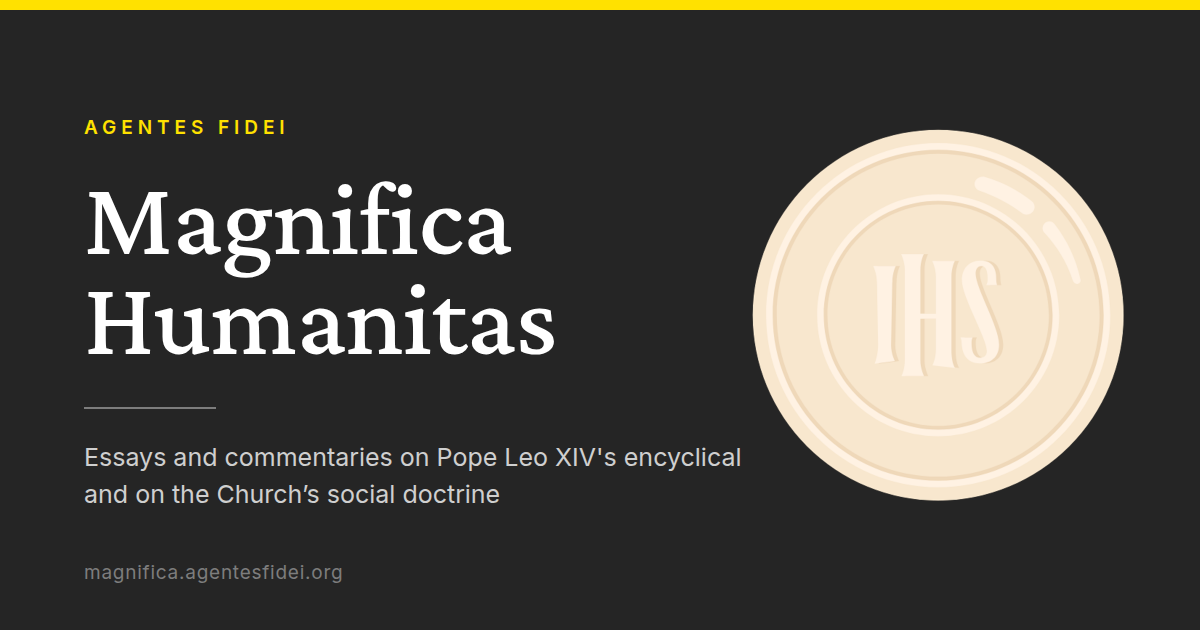
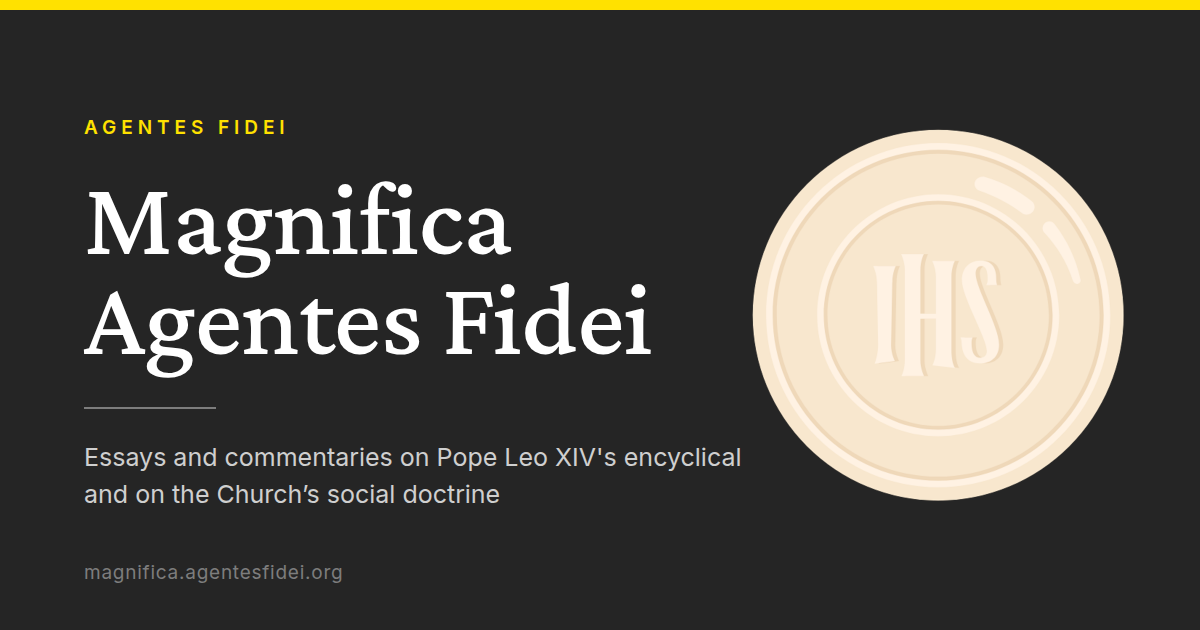
rebrand: the publication is 'Magnifica Agentes Fidei', not 'Magnifica Humanitas'
'Magnifica Humanitas' is the title of the encyclical itself (Leo XIV, 2026);
the publication was wearing it, which confuses the two. The site's nameplate,
page-title suffixes, og:site_name, RSS feed title, CMS admin branding and the
share-card nameplate now read 'Magnifica Agentes Fidei'. Every reference to
the encyclical keeps its title: the tagline, the quotations post, the sources
rows, the documents row, the Veritas guide copy, and the introduction post
(whose abstract introduces the encyclical).

Changed region(s): [[0.0617, 0.4524, 0.555, 0.6032]]

diff --git a/site/src/lib/i18n.ts b/site/src/lib/i18n.ts
@@ -7,7 +7,9 @@
 export type Lang = 'en' | 'es';
 
 const en = {
-  siteName: 'Magnifica Humanitas',
+  // The publication's own name. NOT the encyclical's: the encyclical is Magnifica Humanitas;
+  // this publication is named for the publisher, so the two are never confused (Barry, 2026-10-27).
+  siteName: 'Magnifica Agentes Fidei',
   // The masthead credit under the title on the home page. A proper noun, so identical in both
   // locales — but declared in both, because `typeof en` requires the key to exist in each.
   publisher: 'Agentes Fidei',
@@ -109,7 +111,7 @@ const en = {
 // `typeof en` keeps the two languages structurally identical: adding a string to one
 // without the other is a type error, so no page can render `undefined` in Spanish.
 const es: typeof en = {
-  siteName: 'Magnifica Humanitas',
+  siteName: 'Magnifica Agentes Fidei',
   publisher: 'Agentes Fidei',
   by: 'Por',
   motto: 'seres humanos como agentes de la fe…',

diff --git a/cms/src/payload.config.ts b/cms/src/payload.config.ts
@@ -34,8 +34,8 @@ export default buildConfig({
       baseDir: path.resolve(dirname),
     },
     meta: {
-      titleSuffix: ' — Magnifica Humanitas',
-      description: 'The editorial desk for the Magnifica Humanitas publication.',
+      titleSuffix: ' — Magnifica Agentes Fidei',
+      description: 'The editorial desk for the Magnifica Agentes Fidei publication.',
     },
   },
   collections: [Documents, DocParagraphs, Posts, Sources, PostSources, Topics, Media, Users],
@@ -69,7 +69,7 @@ export default buildConfig({
     ? {
         email: nodemailerAdapter({
           defaultFromAddress: process.env.EMAIL_FROM as string,
-          defaultFromName: 'Magnifica Humanitas',
+          defaultFromName: 'Magnifica Agentes Fidei',
           transportOptions: {
             host: process.env.SMTP_HOST || 'smtp.sendgrid.net',
             port: Number(process.env.SMTP_PORT || 587),

diff --git a/site/src/styles/global.css b/site/src/styles/global.css
@@ -1,7 +1,7 @@
 @import "tailwindcss";
 
 /* ============================================================================
-   INK WASH — the Magnifica Humanitas design system
+   INK WASH — the publication's (Magnifica Agentes Fidei) design system
    ----------------------------------------------------------------------------
    A grayscale system for an editorial, document-like surface. Colour carries
    hierarchy here, never decoration: there is deliberately no accent hue, because

diff --git a/site/src/pages/rss.xml.ts b/site/src/pages/rss.xml.ts
@@ -13,7 +13,7 @@ export const prerender = true;
 export const GET: APIRoute = async (context) => {
   const posts = await listPublishedPosts('en');
   return rss({
-    title: 'Magnifica Humanitas',
+    title: 'Magnifica Agentes Fidei', // the publication's name, not the encyclical's
     description:
       'Posts with cited sources on the teaching of Pope Leo XIV.',
     site: context.site ?? 'https://magnifica.agentesfidei.org',

diff --git a/cms/src/app/(payload)/custom.scss b/cms/src/app/(payload)/custom.scss
@@ -1,4 +1,4 @@
-/* Branding for the Magnifica Humanitas admin.
+/* Branding for the Magnifica Agentes Fidei admin.
  *
  * This is Payload's documented extension point for global admin styles — it is loaded into
  * every admin page. The goal is that the desk an editor sits at looks like the publication

diff --git a/cms/src/seed.ts b/cms/src/seed.ts
@@ -1,5 +1,5 @@
 /**
- * Initial content for the Magnifica Humanitas publication.
+ * Initial content for the Magnifica Agentes Fidei publication.
  *
  * Run inside the CMS image:  docker compose exec -T cms npx payload run src/seed.ts
  *

diff --git a/docs/decisions.md b/docs/decisions.md
@@ -1,4 +1,4 @@
-# Magnifica Humanitas — Architecture Decisions and Open Questions
+# Magnifica Agentes Fidei — Architecture Decisions and Open Questions
 
 Locked decisions (D) and unanswered questions (Q) for the `magnifica.catholic.work`
 publication. Recorded `2026-10-06`. Sourced verbatim from section 1.4 and 1.5 of the

diff --git a/README.md b/README.md
@@ -1,4 +1,4 @@
-# Magnifica Humanitas
+# Magnifica Agentes Fidei
 
 A bilingual, source-cited static publication on the work of Pope Leo XIV, served at
 `https://magnifica.catholic.work`.

diff --git a/ops/sql/README.md b/ops/sql/README.md
@@ -1,4 +1,4 @@
-# ops/sql — database SQL for Magnifica Humanitas
+# ops/sql — database SQL for Magnifica Agentes Fidei
 
 ## Throwaway local development DSN
 
